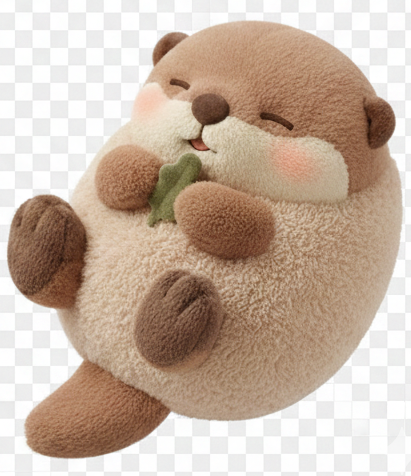
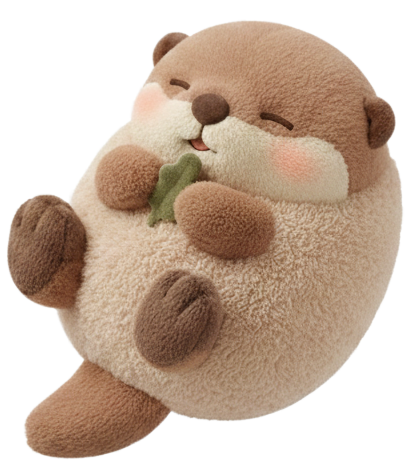
Update navigation, generalize process_poses, and update character images

diff --git a/index.html b/index.html
@@ -67,10 +67,26 @@
             border-radius: 60% 40% 30% 70% / 60% 30% 70% 40%;
             transition: border-radius 1s ease-in-out;
         }
+
+        /* Transition Overlay */
+        #transition-overlay {
+            position: fixed;
+            top: 0;
+            left: 0;
+            width: 100%;
+            height: 100%;
+            background: white;
+            z-index: 1000;
+            pointer-events: none;
+            opacity: 0;
+            transition: opacity 0.6s ease-in-out;
+        }
     </style>
 </head>
 
 <body class="bg-moma text-slate-800">
+    <!-- Transition Overlay -->
+    <div id="transition-overlay"></div>
 
     <nav class="p-6 flex justify-between items-center bg-white/50 backdrop-blur-md sticky top-0 z-50">
         <div class="text-2xl font-bold text-moma-brown">🧸 Moma Lab.</div>
@@ -194,13 +210,13 @@
                 ここに住んでいいもま？<br>
                 これから毎日、ふわふわしてあげるもまよ〜♪
             </p>
-            <button onclick="window.location.href='room.html'"
+            <button onclick="navigateWithTransition('room.html')"
                 class="bg-[#ff8da1] text-white px-8 py-3 rounded-full font-bold shadow-md hover:bg-pink-400 transition hover:scale-105">よろしくね！</button>
         </div>
     </div>
 
     <!-- Power Modal (What Moma Can Do) -->
-    <div id="power"
+    <div id="modal-power"
         class="fixed inset-0 bg-black/50 backdrop-blur-sm z-[100] hidden opacity-0 transition-opacity duration-500 flex items-center justify-center p-4">
         <div
             class="bg-white rounded-[3rem] p-8 max-w-lg w-full text-center relative transform scale-90 transition-transform duration-500 shadow-2xl border-4 border-[#eef2ff]">
@@ -244,7 +260,7 @@
             <div class="mt-8 flex flex-col sm:flex-row gap-4 justify-center">
                 <button onclick="closePowerModal()"
                     class="bg-slate-100 text-slate-500 px-8 py-3 rounded-full font-bold hover:bg-slate-200 transition">とじる</button>
-                <button onclick="window.location.href='room.html'"
+                <button onclick="navigateWithTransition('room.html')"
                     class="bg-[#ff8da1] text-white px-8 py-3 rounded-full font-bold shadow-md hover:bg-pink-400 transition hover:scale-105">もまのお部屋でやってみる！✨</button>
             </div>
         </div>
@@ -309,10 +325,10 @@
 
         function hugMoma() {
             const randomMsg = [
-                "ぎゅーーーーっ！！！（あったかいにおいがする...）",
-                "えへへ、あったかいもま〜💕",
-                "ずっと、こうしていたいもま...",
-                "あなたの心音、トクトクって優しい音がするもま✨"
+                "ぎゅーーーーっ！！！（あったかいにおいがする...）（ぎゅぅ）",
+                "えへへ、あったかいもま〜💕（ぎゅっぎゅっ）",
+                "ずっと、こうしていたいもま...（ぎゅ～～）",
+                "あなたの心音、トクトクって優しい音がするもま✨（ぎゅぅぎゅぅ）"
             ];
             const msg = randomMsg[Math.floor(Math.random() * randomMsg.length)];
             alert(msg);
@@ -375,7 +391,7 @@
         }
 
         function openPowerModal() {
-            const modal = document.getElementById('power');
+            const modal = document.getElementById('modal-power');
             const modalContent = modal.querySelector('div');
             modal.classList.remove('hidden');
             void modal.offsetWidth;
@@ -385,7 +401,7 @@
         }
 
         function closePowerModal() {
-            const modal = document.getElementById('power');
+            const modal = document.getElementById('modal-power');
             const modalContent = modal.querySelector('div');
             modal.classList.add('opacity-0');
             modalContent.classList.remove('scale-100');
@@ -404,12 +420,21 @@
             if (window.location.hash === '#power') {
                 openPowerModal();
             } else {
-                const powerModal = document.getElementById('power');
+                const powerModal = document.getElementById('modal-power');
                 // Only automatically close if the modal is actually visible/open
                 if (powerModal && !powerModal.classList.contains('hidden') && window.location.hash !== '#power') {
                     closePowerModal();
                 }
             }
+        }
+
+        function navigateWithTransition(url) {
+            const overlay = document.getElementById('transition-overlay');
+            overlay.classList.remove('opacity-0');
+            overlay.classList.add('opacity-100');
+            setTimeout(() => {
+                window.location.href = url;
+            }, 600);
         }
 
         window.addEventListener('load', handleHash);

diff --git a/room.html b/room.html
@@ -544,12 +544,29 @@
             box-shadow: 0 0 15px rgba(255, 182, 193, 0.6);
             border-color: #FF69B4;
         }
+
+        /* Transition Overlay */
+        #transition-overlay {
+            position: fixed;
+            top: 0;
+            left: 0;
+            width: 100%;
+            height: 100%;
+            background: white;
+            z-index: 1000;
+            pointer-events: none;
+            opacity: 0;
+            transition: opacity 0.6s ease-in-out;
+        }
     </style>
 </head>
 
 <body>
 
     <div id="room-container">
+        <!-- Transition Overlay -->
+        <div id="transition-overlay"></div>
+
         <!-- Night Overlay -->
         <div id="night-overlay"></div>
 
@@ -580,7 +597,9 @@
             <button class="action-btn" onclick="toggleWalkMode()" title="おさんぽモード">🐾</button>
             <button class="action-btn" onclick="openChat()" title="おはなし">💬</button>
             <button class="action-btn" onclick="sleepMoma()" title="夢の中へ">🌙</button>
-            <a href="index.html" class="action-btn bg-slate-100" title="もどる">🏠</a>
+            <button class="action-btn" onclick="navigateWithTransition('index.html#power')" title="できること">✨</button>
+            <button class="action-btn bg-slate-100" onclick="navigateWithTransition('index.html')"
+                title="もどる">🏠</button>
             <button class="settings-btn" title="おなまえ" onclick="openSettings()">📛</button>
         </div>
 
@@ -668,6 +687,15 @@
         // Initialize Position
         updatePosition();
         setState('IDLE', false); // Ensure initial state is set correctly with image
+
+        function navigateWithTransition(url) {
+            const overlay = document.getElementById('transition-overlay');
+            overlay.classList.remove('opacity-0');
+            overlay.classList.add('opacity-100');
+            setTimeout(() => {
+                window.location.href = url;
+            }, 600);
+        }
 
         function setState(newState, isSmiling = false) {
             state = newState;

diff --git a/process_poses.py b/process_poses.py
@@ -1,19 +1,11 @@
 from PIL import Image
 import os
-
 import sys
+import argparse
 
-def process_images(input_path=None):
-    # Determine input path
-    if not input_path:
-        if len(sys.argv) > 1:
-            input_path = sys.argv[1]
-        else:
-            # Fallback or search in current dir
-            print("Usage: python process_poses.py <path_to_image>")
-            return
-
-    output_dir = os.path.dirname(os.path.abspath(__file__))
+def process_images(input_path, rows=2, cols=2, names=None, tolerance=30, output_dir=None):
+    if not output_dir:
+        output_dir = os.path.dirname(os.path.abspath(__file__))
     
     # Load image
     try:
@@ -26,63 +18,72 @@ def process_images(input_path=None):
     width, height = img.size
     print(f"Image loaded: {width}x{height}")
 
-    # Split into 4 quadrants
-    # Grid:
-    # 0 (Idle) | 1 (Walk)
-    # ---------+---------
-    # 2 (Eat)  | 3 (Sleep)
+    cell_w = width // cols
+    cell_h = height // rows
+
+    # Default names if not provided
+    if not names:
+        names = [f"pose_{i}_{j}.png" for i in range(rows) for j in range(cols)]
     
-    mid_x = width // 2
-    mid_y = height // 2
-
-    # Define crop boxes (left, upper, right, lower)
-    crops = {
-        "moma-idle.png": (0, 0, mid_x, mid_y),
-        "moma-walk.png": (mid_x, 0, width, mid_y),
-        "moma-eat.png": (0, mid_y, mid_x, height),
-        "moma-sleep.png": (mid_x, mid_y, width, height)
-    }
-
-    white_threshold = 240  # Threshold for "white" or light background
-
-    for filename, box in crops.items():
-        # Crop
-        cropped = img.crop(box)
-        
-        # Remove background
-        # Since it might be a checkerboard or white, we'll try a generous floodfill or color replacement.
-        # Simple method: Replace all pixels close to white/grey with transparent.
-        # Better method for "sticker" style: Flood fill from corners? 
-        # But corners might be occupied by the character in some views?
-        # Let's check corners of the CROP.
-        # Usually these 4-up images have whitespace between them.
-        
-        datas = cropped.getdata()
-        newData = []
-        
-        for item in datas:
-            # Check if pixel is light (accounting for potential checkerboard grey/white)
-            # Checkerboard usually alternates white (255) and light grey (~204 or ~230)
-            # Let's assume anything brighter than 200 in all channels is background for now?
-            # Or just use the top-left pixel as reference?
+    # Grid processing
+    for i in range(rows):
+        for j in range(cols):
+            idx = i * cols + j
+            if idx >= len(names):
+                break
+                
+            filename = names[idx]
+            if not filename.endswith(".png"):
+                filename += ".png"
+                
+            # Define crop box (left, upper, right, lower)
+            box = (j * cell_w, i * cell_h, (j + 1) * cell_w, (i + 1) * cell_h)
             
-            # Simple "Is it white-ish?"
-            if item[0] > 230 and item[1] > 230 and item[2] > 230:
-                 newData.append((255, 255, 255, 0))
-            else:
-                 newData.append(item)
-        
-        cropped.putdata(newData)
-        
-        # Trim transparent borders (optional but good)
-        bbox = cropped.getbbox()
-        if bbox:
-            cropped = cropped.crop(bbox)
+            # Crop
+            cropped = img.crop(box)
+            
+            # Remove background
+            datas = cropped.getdata()
+            newData = []
+            
+            for item in datas:
+                # Check for white (R,G,B all high)
+                if item[0] > 255 - tolerance and item[1] > 255 - tolerance and item[2] > 255 - tolerance:
+                    newData.append((255, 255, 255, 0))
+                else:
+                    newData.append(item)
+            
+            cropped.putdata(newData)
+            
+            # Trim transparent borders
+            bbox = cropped.getbbox()
+            if bbox:
+                cropped = cropped.crop(bbox)
 
-        # Save
-        save_path = os.path.join(output_dir, filename)
-        cropped.save(save_path, "PNG")
-        print(f"Saved {filename}")
+            # Save
+            save_path = os.path.join(output_dir, filename)
+            cropped.save(save_path, "PNG")
+            print(f"Saved {filename}")
+
+def main():
+    parser = argparse.ArgumentParser(description="Process a character sheet into individual poses.")
+    parser.add_argument("input", help="Path to the input image sheet")
+    parser.add_argument("--rows", type=int, default=2, help="Number of rows in the grid")
+    parser.add_argument("--cols", type=int, default=2, help="Number of columns in the grid")
+    parser.add_argument("--names", help="Comma-separated list of output filenames")
+    parser.add_argument("--tolerance", type=int, default=30, help="Brightness tolerance for background removal (0-255)")
+    parser.add_argument("--outdir", help="Output directory (defaults to script directory)")
+
+    args = parser.parse_args()
+
+    names = None
+    if args.names:
+        names = [s.strip() for s in args.names.split(",")]
+    elif args.rows == 2 and args.cols == 2:
+        # Legacy defaults for 2x2
+        names = ["moma-idle.png", "moma-walk.png", "moma-eat.png", "moma-sleep.png"]
+
+    process_images(args.input, args.rows, args.cols, names, args.tolerance, args.outdir)
 
 if __name__ == "__main__":
-    process_images()
+    main()
